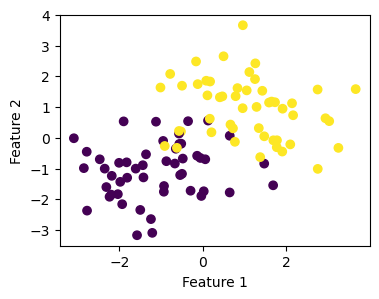
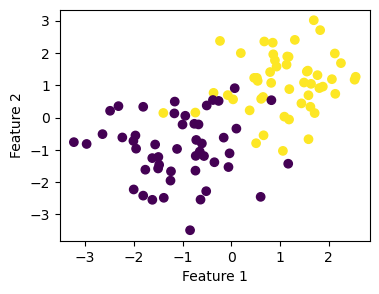
various updates

diff --git a/docs/lecture-notes/convex-linear-models.html b/docs/lecture-notes/convex-linear-models.html
@@ -398,9 +398,9 @@ f(\lambda \mathbf{z}_1 + (1-\lambda)\mathbf{z}_2) &lt; \lambda f( \mathbf{z}_1 )
 <i class="callout-icon no-icon"></i>
 </div>
 <div class="callout-body-container">
-<div id="def-minima" class="theorem definition">
-<p><span class="theorem-title"><strong>Definition 3 (Local and Global Minima) </strong></span>A point <span class="math inline">\(\mathbf{z}\in S\)</span> is a <em>global minimum</em> of the function <span class="math inline">\(f:S \rightarrow \mathbb{R}\)</span> if <span class="math inline">\(f(\mathbf{z}) \leq f(\mathbf{z}')\)</span> for all <span class="math inline">\(\mathbf{z}' \in S\)</span>.</p>
-<p>A point <span class="math inline">\(\mathbf{z}\in S\)</span> is a <em>local minimum</em> of <span class="math inline">\(f:S \rightarrow \mathbb{R}\)</span> if there exists a neighborhood <span class="math inline">\(T \subseteq S\)</span> containing <span class="math inline">\(\mathbf{z}\)</span> such that <span class="math inline">\(\mathbf{z}\)</span> is a global minimum of <span class="math inline">\(f\)</span> on <span class="math inline">\(T\)</span>.</p>
+<div id="def-minimizers" class="theorem definition">
+<p><span class="theorem-title"><strong>Definition 3 (Local and Global Minimizers) </strong></span>A point <span class="math inline">\(\mathbf{z}\in S\)</span> is a <em>global minimizer</em> of the function <span class="math inline">\(f:S \rightarrow \mathbb{R}\)</span> if <span class="math inline">\(f(\mathbf{z}) \leq f(\mathbf{z}')\)</span> for all <span class="math inline">\(\mathbf{z}' \in S\)</span>.</p>
+<p>A point <span class="math inline">\(\mathbf{z}\in S\)</span> is a <em>local minimizer</em> of <span class="math inline">\(f:S \rightarrow \mathbb{R}\)</span> if there exists a neighborhood <span class="math inline">\(T \subseteq S\)</span> containing <span class="math inline">\(\mathbf{z}\)</span> such that <span class="math inline">\(\mathbf{z}\)</span> is a global minimizer of <span class="math inline">\(f\)</span> on <span class="math inline">\(T\)</span>.</p>
 </div>
 </div>
 </div>
@@ -415,9 +415,9 @@ f(\lambda \mathbf{z}_1 + (1-\lambda)\mathbf{z}_2) &lt; \lambda f( \mathbf{z}_1 )
 <div id="thm-convex-functions-are-nice" class="theorem">
 <p><span class="theorem-title"><strong>Theorem 2 </strong></span>Let <span class="math inline">\(f:S \rightarrow \mathbb{R}\)</span> be a convex function. Then:</p>
 <ol type="1">
-<li>If <span class="math inline">\(S\)</span> is closed and bounded, <span class="math inline">\(f\)</span> achieves a minimum <span class="math inline">\(\mathbf{z}^*\)</span> on <span class="math inline">\(S\)</span>.</li>
-<li>Furthermore, if <span class="math inline">\(\mathbf{z}^*\)</span> is a <em>local</em> minimum of <span class="math inline">\(f\)</span>, then it is also a global minimum.</li>
-<li>If in addition <span class="math inline">\(f\)</span> is <em>strictly</em> convex, then this minimum is unique.</li>
+<li>If <span class="math inline">\(S\)</span> is closed and bounded, <span class="math inline">\(f\)</span> has a minimizer <span class="math inline">\(\mathbf{z}^*\)</span> in <span class="math inline">\(S\)</span>.</li>
+<li>Furthermore, if <span class="math inline">\(\mathbf{z}^*\)</span> is a <em>local</em> minimizer of <span class="math inline">\(f\)</span>, then it is also a global minimizer.</li>
+<li>If in addition <span class="math inline">\(f\)</span> is <em>strictly</em> convex, then this minimizer is unique.</li>
 </ol>
 </div>
 </div>
@@ -428,9 +428,9 @@ f(\lambda \mathbf{z}_1 + (1-\lambda)\mathbf{z}_2) &lt; \lambda f( \mathbf{z}_1 )
 <ul>
 <li>Every convex function is <em>continuous</em>.</li>
 <li>If <span class="math inline">\(S\subseteq \mathbb{R}^n\)</span> is closed and bounded, then it is <em>compact</em>.</li>
-<li>Continuous functions achieve minima and maxima on compact sets.</li>
+<li>Continuous functions achieve minimizers and maximizers on compact sets.</li>
 </ul>
-<p>It’s ok if you didn’t follow this! Fortunately the second part of the proof is one we can do together. Suppose to contradiction that <span class="math inline">\(\mathbf{z}^*\)</span> is a local minimum of <span class="math inline">\(f\)</span>, but that there is also a point <span class="math inline">\(\mathbf{z}'\)</span> such that <span class="math inline">\(f(\mathbf{z}') &lt; f(\mathbf{z}^*)\)</span>. Since <span class="math inline">\(\mathbf{z}^*\)</span> is a local minimum, we can find some neighborhood <span class="math inline">\(T\)</span> containing <span class="math inline">\(\mathbf{z}^*\)</span> such that <span class="math inline">\(\mathbf{z}^*\)</span> is a minimum of <span class="math inline">\(f\)</span> on <span class="math inline">\(T\)</span>. Let <span class="math inline">\(\lambda\)</span> be some very small number and consider the point <span class="math inline">\(\mathbf{z}= \lambda \mathbf{z}' + (1-\lambda)\mathbf{z}^*\)</span>. Specifically, choose <span class="math inline">\(\lambda\)</span> small enough so that <span class="math inline">\(\mathbf{z}\in T\)</span> (since this makes <span class="math inline">\(\mathbf{z}\)</span> close to <span class="math inline">\(\mathbf{z}^*\)</span>). We can evaluate</p>
+<p>It’s ok if you didn’t follow this! Fortunately the second part of the proof is one we can do together. Suppose to contradiction that <span class="math inline">\(\mathbf{z}^*\)</span> is a local minimizer of <span class="math inline">\(f\)</span>, but that there is also a point <span class="math inline">\(\mathbf{z}'\)</span> such that <span class="math inline">\(f(\mathbf{z}') &lt; f(\mathbf{z}^*)\)</span>. Since <span class="math inline">\(\mathbf{z}^*\)</span> is a local minimizer, we can find some neighborhood <span class="math inline">\(T\)</span> containing <span class="math inline">\(\mathbf{z}^*\)</span> such that <span class="math inline">\(\mathbf{z}^*\)</span> is a minimizer of <span class="math inline">\(f\)</span> on <span class="math inline">\(T\)</span>. Let <span class="math inline">\(\lambda\)</span> be some very small number and consider the point <span class="math inline">\(\mathbf{z}= \lambda \mathbf{z}' + (1-\lambda)\mathbf{z}^*\)</span>. Specifically, choose <span class="math inline">\(\lambda\)</span> small enough so that <span class="math inline">\(\mathbf{z}\in T\)</span> (since this makes <span class="math inline">\(\mathbf{z}\)</span> close to <span class="math inline">\(\mathbf{z}^*\)</span>). We can evaluate</p>
 <p><span class="math display">\[
 \begin{align}
 f(\mathbf{z}) &amp;= f(\lambda \mathbf{z}' + (1-\lambda)\mathbf{z}^*) \tag{definition of $\mathbf{z}$}\\
@@ -439,7 +439,7 @@ f(\mathbf{z}) &amp;= f(\lambda \mathbf{z}' + (1-\lambda)\mathbf{z}^*) \tag{defin
        &amp;&lt; f(\mathbf{z}^*)\;. \tag{assumption that $f(\mathbf{z}') &lt; f(\mathbf{z}^*)$}
 \end{align}
 \]</span></p>
-<p>But this is a contradiction, since we constructed <span class="math inline">\(\mathbf{z}\)</span> to be in the neighborhood <span class="math inline">\(T\)</span> where <span class="math inline">\(\mathbf{z}^*\)</span> is a local minimum. We conclude that there is no <span class="math inline">\(\mathbf{z}'\)</span> such that <span class="math inline">\(f(\mathbf{z}') &lt; f(\mathbf{z}^*)\)</span>, and therefore that <span class="math inline">\(\mathbf{z}^*\)</span> is a global minimum.</p>
+<p>But this is a contradiction, since we constructed <span class="math inline">\(\mathbf{z}\)</span> to be in the neighborhood <span class="math inline">\(T\)</span> where <span class="math inline">\(\mathbf{z}^*\)</span> is a local minimizer. We conclude that there is no <span class="math inline">\(\mathbf{z}'\)</span> such that <span class="math inline">\(f(\mathbf{z}') &lt; f(\mathbf{z}^*)\)</span>, and therefore that <span class="math inline">\(\mathbf{z}^*\)</span> is a global minimizer.</p>
 <p>The proof of the third part follows a very similar argument to the proof of the second part!</p>
 </div>
 <p>There’s two other very important math facts that we need in order to apply convexity to the empirical risk minimization problem for linear models.</p>
@@ -476,14 +476,14 @@ f(\mathbf{z}) &amp;= f(\lambda \mathbf{z}' + (1-\lambda)\mathbf{z}^*) \tag{defin
 <ol type="1">
 <li><span class="math inline">\(\ell(\langle \mathbf{w}, \mathbf{x} \rangle, y)\)</span> is strictly convex as a function of <span class="math inline">\(\mathbf{w}\)</span> (<a href="#thm-convex-compositions">Theorem&nbsp;3</a>, part 2).</li>
 <li>The empirical risk <span class="math inline">\(L(\mathbf{w}) = \frac{1}{n}\sum_{i = 1}^n \ell(\langle \mathbf{w}, \mathbf{x}_i \rangle, y_i)\)</span> is strictly convex as a function of <span class="math inline">\(\mathbf{w}\)</span> (<a href="#thm-convex-compositions">Theorem&nbsp;3</a>, part 1).</li>
-<li>If the empirical risk <span class="math inline">\(R(\mathbf{w})\)</span> has a global minimum, that global minimum is unique (<a href="#thm-convex-functions-are-nice">Theorem&nbsp;2</a>, part 3).</li>
-<li>The empirical risk <span class="math inline">\(R(\mathbf{w})\)</span> has no local minima which are not global minima.</li>
+<li>If the empirical risk <span class="math inline">\(R(\mathbf{w})\)</span> has a global minimizer, that global minimizer is unique (<a href="#thm-convex-functions-are-nice">Theorem&nbsp;2</a>, part 3).</li>
+<li>The empirical risk <span class="math inline">\(R(\mathbf{w})\)</span> has no local minimizers which are not global minimizers.</li>
 </ol>
 <p>These facts have important implications for our fundamental questions on empirical risk minimization.</p>
-<p><strong>Existence</strong>. Even convex functions are not guaranteed to have minima. However, there are lots of choices of loss function <span class="math inline">\(\ell\)</span> which do guarantee that the empirical risk has a minimizer.</p>
+<p><strong>Existence</strong>. Even convex functions are not guaranteed to have minimizers. However, there are lots of choices of loss function <span class="math inline">\(\ell\)</span> which do guarantee that the empirical risk has a minimizer.</p>
 <p><strong>Uniqueness</strong>: When the empirical risk is strictly convex, there can only be one global minimizer.</p>
-<p><strong>Searchability</strong>: When the empirical risk is strictly convex, there are also no local minima other than the global minimum. Algorithmically, <strong><em>this is the most important property of convexity</em></strong>. It means that if I manage to find any local minimum at all, that point <em>must</em> be the global minimum.</p>
-<div class="page-columns page-full"><p> <strong>Performance</strong>: Convexity significantly reduces the difficulty of our task: instead of trying to find “the best” solution, it’s sufficient for us to find any local optimum. This means that we can design our algorithms to be “greedy local minimum hunters.” There are lots of fast algorithms to do this. An especially important class of algorithms are <em>gradient descent methods</em>, which we’ll discuss soon.</p><div class="no-row-height column-margin column-container"><span class="aside">If you’ve taken an algorithms class, one way of thinking of convexity is that it guarantees that <em>greedy methods work</em> for solving minimization problems.</span></div></div>
+<p><strong>Searchability</strong>: When the empirical risk is strictly convex, there are also no local minimizers other than the global minimizer. Algorithmically, <strong><em>this is the most important property of convexity</em></strong>. It means that if I manage to find any local minimizer at all, that point <em>must</em> be the global minimizer.</p>
+<div class="page-columns page-full"><p> <strong>Performance</strong>: Convexity significantly reduces the difficulty of our task: instead of trying to find “the best” solution, it’s sufficient for us to find any local optimum. This means that we can design our algorithms to be “greedy local minimizer hunters.” There are lots of fast algorithms to do this. An especially important class of algorithms are <em>gradient descent methods</em>, which we’ll discuss soon.</p><div class="no-row-height column-margin column-container"><span class="aside">If you’ve taken an algorithms class, one way of thinking of convexity is that it guarantees that <em>greedy methods work</em> for solving minimization problems.</span></div></div>
 </section>
 <section id="demo-logistic-regression" class="level2 page-columns page-full">
 <h2 class="anchored" data-anchor-id="demo-logistic-regression">Demo: Logistic Regression</h2>

diff --git a/docs/lecture-notes/convex-linear-models-demo.html b/docs/lecture-notes/convex-linear-models-demo.html
@@ -118,7 +118,6 @@ code span.wa { color: #60a0b0; font-weight: bold; font-style: italic; } /* Warni
   }
 }</script>
 
-  <script src="https://cdn.jsdelivr.net/npm/mathjax@3/es5/tex-chtml-full.js" type="text/javascript"></script>
 
 <link rel="stylesheet" href="../styles.css">
 </head>
@@ -180,13 +179,12 @@ code span.wa { color: #60a0b0; font-weight: bold; font-style: italic; } /* Warni
 
 
 <div class="cell" data-execution_count="1">
-<div class="sourceCode cell-code" id="cb1"><pre class="sourceCode python code-with-copy"><code class="sourceCode python"><span id="cb1-1"><a href="#cb1-1" aria-hidden="true" tabindex="-1"></a></span>
-<span id="cb1-2"><a href="#cb1-2" aria-hidden="true" tabindex="-1"></a><span class="im">from</span> matplotlib <span class="im">import</span> pyplot <span class="im">as</span> plt</span>
-<span id="cb1-3"><a href="#cb1-3" aria-hidden="true" tabindex="-1"></a><span class="im">import</span> numpy <span class="im">as</span> np</span>
-<span id="cb1-4"><a href="#cb1-4" aria-hidden="true" tabindex="-1"></a><span class="im">from</span> scipy.optimize <span class="im">import</span> minimize</span>
-<span id="cb1-5"><a href="#cb1-5" aria-hidden="true" tabindex="-1"></a><span class="im">from</span> sklearn.datasets <span class="im">import</span> make_blobs</span>
-<span id="cb1-6"><a href="#cb1-6" aria-hidden="true" tabindex="-1"></a>plt.rcParams[<span class="st">"figure.figsize"</span>] <span class="op">=</span> (<span class="dv">4</span>, <span class="dv">3</span>)</span>
-<span id="cb1-7"><a href="#cb1-7" aria-hidden="true" tabindex="-1"></a>np.seterr(<span class="bu">all</span><span class="op">=</span><span class="st">'ignore'</span>) </span></code><button title="Copy to Clipboard" class="code-copy-button"><i class="bi"></i></button></pre></div>
+<div class="sourceCode cell-code" id="cb1"><pre class="sourceCode python code-with-copy"><code class="sourceCode python"><span id="cb1-1"><a href="#cb1-1" aria-hidden="true" tabindex="-1"></a><span class="im">from</span> matplotlib <span class="im">import</span> pyplot <span class="im">as</span> plt</span>
+<span id="cb1-2"><a href="#cb1-2" aria-hidden="true" tabindex="-1"></a><span class="im">import</span> numpy <span class="im">as</span> np</span>
+<span id="cb1-3"><a href="#cb1-3" aria-hidden="true" tabindex="-1"></a><span class="im">from</span> scipy.optimize <span class="im">import</span> minimize</span>
+<span id="cb1-4"><a href="#cb1-4" aria-hidden="true" tabindex="-1"></a><span class="im">from</span> sklearn.datasets <span class="im">import</span> make_blobs</span>
+<span id="cb1-5"><a href="#cb1-5" aria-hidden="true" tabindex="-1"></a>plt.rcParams[<span class="st">"figure.figsize"</span>] <span class="op">=</span> (<span class="dv">4</span>, <span class="dv">3</span>)</span>
+<span id="cb1-6"><a href="#cb1-6" aria-hidden="true" tabindex="-1"></a>np.seterr(<span class="bu">all</span><span class="op">=</span><span class="st">'ignore'</span>) </span></code><button title="Copy to Clipboard" class="code-copy-button"><i class="bi"></i></button></pre></div>
 <div class="cell-output cell-output-display" data-execution_count="1">
 <pre><code>{'divide': 'warn', 'over': 'warn', 'under': 'ignore', 'invalid': 'warn'}</code></pre>
 </div>
@@ -199,8 +197,6 @@ code span.wa { color: #60a0b0; font-weight: bold; font-style: italic; } /* Warni
 <p><img src="convex-linear-models-demo_files/figure-html/cell-3-output-1.png" class="img-fluid"></p>
 </div>
 </div>
-<p>Because the logistic loss is convex in <span class="math inline">\(\hat{y}\)</span>, the empirical risk minimization problem can have at most one minimum. In fact, it’s possible to show, if the data is <em>not</em> linearly separable, there exists a global minimum.</p>
-<p>Here is some sample data for which we will try to find a good linear classifier.</p>
 <div class="cell" data-execution_count="3">
 <div class="sourceCode cell-code" id="cb4"><pre class="sourceCode python code-with-copy"><code class="sourceCode python"><span id="cb4-1"><a href="#cb4-1" aria-hidden="true" tabindex="-1"></a>p_features <span class="op">=</span> <span class="dv">3</span></span>
 <span id="cb4-2"><a href="#cb4-2" aria-hidden="true" tabindex="-1"></a></span>
@@ -218,24 +214,34 @@ code span.wa { color: #60a0b0; font-weight: bold; font-style: italic; } /* Warni
 </div>
 </div>
 </div>
-<p>Now let’s do an implementation. First let’s define a linear predictor function of the form <span class="math inline">\(f(\vx) = \bracket{w, \vx}\)</span>. Note that this predictor makes the predictions on <em>all</em> the training data at once!</p>
 <div class="cell" data-execution_count="4">
 <div class="sourceCode cell-code" id="cb5"><pre class="sourceCode python code-with-copy"><code class="sourceCode python"><span id="cb5-1"><a href="#cb5-1" aria-hidden="true" tabindex="-1"></a><span class="co"># add a constant feature to the feature matrix</span></span>
-<span id="cb5-2"><a href="#cb5-2" aria-hidden="true" tabindex="-1"></a>X_ <span class="op">=</span> np.append(X, np.ones((X.shape[<span class="dv">0</span>], <span class="dv">1</span>)), <span class="dv">1</span>)</span>
-<span id="cb5-3"><a href="#cb5-3" aria-hidden="true" tabindex="-1"></a></span></code><button title="Copy to Clipboard" class="code-copy-button"><i class="bi"></i></button></pre></div>
+<span id="cb5-2"><a href="#cb5-2" aria-hidden="true" tabindex="-1"></a>X_ <span class="op">=</span> np.append(X, np.ones((X.shape[<span class="dv">0</span>], <span class="dv">1</span>)), <span class="dv">1</span>)</span></code><button title="Copy to Clipboard" class="code-copy-button"><i class="bi"></i></button></pre></div>
 </div>
 <p>Now we’ll define some functions to compute the empirical risk:</p>
-<div class="cell" data-execution_count="5">
-<div class="sourceCode cell-code" id="cb6"><pre class="sourceCode python code-with-copy"><code class="sourceCode python"><span id="cb6-1"><a href="#cb6-1" aria-hidden="true" tabindex="-1"></a><span class="co"># implement: </span></span>
+<div class="cell" data-execution_count="9">
+<div class="sourceCode cell-code" id="cb6"><pre class="sourceCode python code-with-copy"><code class="sourceCode python"><span id="cb6-1"><a href="#cb6-1" aria-hidden="true" tabindex="-1"></a><span class="co"># implement: (WE ARE CODING TOGETHER HERE!!)</span></span>
 <span id="cb6-2"><a href="#cb6-2" aria-hidden="true" tabindex="-1"></a><span class="co"># - predict</span></span>
 <span id="cb6-3"><a href="#cb6-3" aria-hidden="true" tabindex="-1"></a><span class="co"># - sigmoid</span></span>
 <span id="cb6-4"><a href="#cb6-4" aria-hidden="true" tabindex="-1"></a><span class="co"># - logistic_loss</span></span>
 <span id="cb6-5"><a href="#cb6-5" aria-hidden="true" tabindex="-1"></a><span class="co"># - empirical_risk</span></span>
-<span id="cb6-6"><a href="#cb6-6" aria-hidden="true" tabindex="-1"></a></span></code><button title="Copy to Clipboard" class="code-copy-button"><i class="bi"></i></button></pre></div>
+<span id="cb6-6"><a href="#cb6-6" aria-hidden="true" tabindex="-1"></a></span>
+<span id="cb6-7"><a href="#cb6-7" aria-hidden="true" tabindex="-1"></a><span class="kw">def</span> predict(X, w):</span>
+<span id="cb6-8"><a href="#cb6-8" aria-hidden="true" tabindex="-1"></a>    <span class="cf">return</span> X<span class="op">@</span>w</span>
+<span id="cb6-9"><a href="#cb6-9" aria-hidden="true" tabindex="-1"></a></span>
+<span id="cb6-10"><a href="#cb6-10" aria-hidden="true" tabindex="-1"></a><span class="kw">def</span> logistic_loss(y_hat, y):</span>
+<span id="cb6-11"><a href="#cb6-11" aria-hidden="true" tabindex="-1"></a>    <span class="cf">return</span> <span class="op">-</span>y<span class="op">*</span>np.log(sigmoid(y_hat)) <span class="op">-</span> (<span class="dv">1</span><span class="op">-</span>y)<span class="op">*</span>np.log(<span class="dv">1</span> <span class="op">-</span> sigmoid(y_hat))</span>
+<span id="cb6-12"><a href="#cb6-12" aria-hidden="true" tabindex="-1"></a></span>
+<span id="cb6-13"><a href="#cb6-13" aria-hidden="true" tabindex="-1"></a><span class="kw">def</span> sigmoid(y_hat): </span>
+<span id="cb6-14"><a href="#cb6-14" aria-hidden="true" tabindex="-1"></a>    <span class="cf">return</span> <span class="dv">1</span> <span class="op">/</span> (<span class="dv">1</span> <span class="op">+</span> np.exp(<span class="op">-</span>y_hat))</span>
+<span id="cb6-15"><a href="#cb6-15" aria-hidden="true" tabindex="-1"></a></span>
+<span id="cb6-16"><a href="#cb6-16" aria-hidden="true" tabindex="-1"></a><span class="kw">def</span> empirical_risk(X, y, w, loss):</span>
+<span id="cb6-17"><a href="#cb6-17" aria-hidden="true" tabindex="-1"></a>    y_hat <span class="op">=</span> predict(X, w)</span>
+<span id="cb6-18"><a href="#cb6-18" aria-hidden="true" tabindex="-1"></a>    <span class="cf">return</span> loss(y_hat, y).mean()</span></code><button title="Copy to Clipboard" class="code-copy-button"><i class="bi"></i></button></pre></div>
 </div>
 <p>Finally, we can write the function that will solve the empirical risk minimization problem for us. We’re going to use the <code>scipy.optimize.minimize</code> function, which is a built-in function for solving minimization problems. Soon, we’ll study how to solve minimization problems from scratch.</p>
 <p>The <code>scipy.optimize.minimize</code> function requires us to pass it a single function that accepts a vector of parameters, plus an initial guess for the parameters.</p>
-<div class="cell" data-execution_count="6">
+<div class="cell" data-execution_count="10">
 <div class="sourceCode cell-code" id="cb7"><pre class="sourceCode python code-with-copy"><code class="sourceCode python"><span id="cb7-1"><a href="#cb7-1" aria-hidden="true" tabindex="-1"></a><span class="kw">def</span> find_pars(X, y):</span>
 <span id="cb7-2"><a href="#cb7-2" aria-hidden="true" tabindex="-1"></a>    </span>
 <span id="cb7-3"><a href="#cb7-3" aria-hidden="true" tabindex="-1"></a>    p <span class="op">=</span> X.shape[<span class="dv">1</span>]</span>
@@ -249,15 +255,15 @@ code span.wa { color: #60a0b0; font-weight: bold; font-style: italic; } /* Warni
 <span id="cb7-11"><a href="#cb7-11" aria-hidden="true" tabindex="-1"></a>    <span class="cf">return</span> result.x</span></code><button title="Copy to Clipboard" class="code-copy-button"><i class="bi"></i></button></pre></div>
 </div>
 <p>Ok, let’s try it and take a look at the parameters we obtained. Because the final column of <code>X_</code> is the constant column of 1s, the final entry of <code>w</code> is interpretable as the intercept term <code>b</code>.</p>
-<div class="cell" data-execution_count="7">
+<div class="cell" data-execution_count="11">
 <div class="sourceCode cell-code" id="cb8"><pre class="sourceCode python code-with-copy"><code class="sourceCode python"><span id="cb8-1"><a href="#cb8-1" aria-hidden="true" tabindex="-1"></a>w <span class="op">=</span> find_pars(X_, y)</span>
 <span id="cb8-2"><a href="#cb8-2" aria-hidden="true" tabindex="-1"></a>w</span></code><button title="Copy to Clipboard" class="code-copy-button"><i class="bi"></i></button></pre></div>
-<div class="cell-output cell-output-display" data-execution_count="7">
-<pre><code>array([ 1.73978352,  2.72790434, -0.05069899])</code></pre>
+<div class="cell-output cell-output-display" data-execution_count="11">
+<pre><code>array([ 2.13023501,  1.71745945, -0.15021883])</code></pre>
 </div>
 </div>
 <p>And, finally, we can plot the linear classifier that we learned.</p>
-<div class="cell" data-execution_count="8">
+<div class="cell" data-execution_count="12">
 <div class="sourceCode cell-code" id="cb10"><pre class="sourceCode python code-with-copy"><code class="sourceCode python"><span id="cb10-1"><a href="#cb10-1" aria-hidden="true" tabindex="-1"></a>fig <span class="op">=</span> plt.scatter(X[:,<span class="dv">0</span>], X[:,<span class="dv">1</span>], c <span class="op">=</span> y)</span>
 <span id="cb10-2"><a href="#cb10-2" aria-hidden="true" tabindex="-1"></a>xlab <span class="op">=</span> plt.xlabel(<span class="st">"Feature 1"</span>)</span>
 <span id="cb10-3"><a href="#cb10-3" aria-hidden="true" tabindex="-1"></a>ylab <span class="op">=</span> plt.ylabel(<span class="st">"Feature 2"</span>)</span>

diff --git a/docs/warmup-exercises.html b/docs/warmup-exercises.html
@@ -281,7 +281,7 @@ code span.wa { color: #60a0b0; font-weight: bold; font-style: italic; } /* Warni
 </section>
 <section id="part-2-second-derivative-test" class="level3 page-columns page-full">
 <h3 class="anchored" data-anchor-id="part-2-second-derivative-test">Part 2: Second Derivative Test</h3>
-<p>Another way to tell whether a function is convex is to check its second derivative. If a function <span class="math inline">\(f:S\rightarrow \R\)</span> has a convex domain <span class="math inline">\(S\subseteq R\)</span>, if <span class="math inline">\(f\)</span> is everywhere twice-differentiable, and if <span class="math inline">\(\frac{d^2f(z_0)}{dz^2} &gt; 0\)</span> for all <span class="math inline">\(z_0 \in S\)</span>, then <span class="math inline">\(f\)</span> is convex.</p>
+<p>Another way to tell whether a function is convex is to check its second derivative. If a function <span class="math inline">\(f:S\rightarrow \R\)</span> has a convex domain <span class="math inline">\(S\subseteq \R\)</span>, if <span class="math inline">\(f\)</span> is everywhere twice-differentiable, and if <span class="math inline">\(\frac{d^2f(z_0)}{dz^2} &gt; 0\)</span> for all <span class="math inline">\(z_0 \in S\)</span>, then <span class="math inline">\(f\)</span> is convex.</p>
 <div class="page-columns page-full"><p>Use the second derivative test to check that the following two functions are convex: </p><div class="no-row-height column-margin column-container"><span class="aside">The base of the logarithm doesn’t really matter, but for this course it is always most convenient to assume logs base <span class="math inline">\(e\)</span>, which you might also have seen written <span class="math inline">\(\ln\)</span>.</span></div></div>
 <p><span class="math display">\[
 \begin{aligned}
@@ -312,7 +312,7 @@ f(\lambda \vz_1 + (1-\lambda)\vz_2) \leq \lambda f(\vz_1) + (1-\lambda)f(\vz_2)\
 <li>Suppose now that we are able to evaluate the function <span class="math inline">\(g\)</span>, as well as its derivative <span class="math inline">\(g'\)</span>, but not able to use algebra to find <span class="math inline">\(z^*\)</span> (this mirrors our situation in most practical problems). Instead, we are going to use the following algorithm to attempt to approximate <span class="math inline">\(z^*\)</span>:
 <ul>
 <li>Begin with some initial guess <span class="math inline">\(z^{(0)}\)</span>.</li>
-<li>In each time-step <span class="math inline">\(t\)</span>, compute <span class="math inline">\(z^{(t+1)} \gets z^{(t)} - \alpha g'(z^{(t)})\)</span>.</li>
+<li>In each time-step <span class="math inline">\(t\)</span>, compute <span class="math inline">\(z^{(t+1)} \gets z^{(t)} - \alpha g'(z^{(t)})\)</span>, where <span class="math inline">\(\alpha &gt; 0\)</span> is the <em>learning rate</em>.</li>
 <li>In practice we would need to specify a stopping criterion, but for this theoretical problem we don’t need to worry about it.</li>
 </ul></li>
 <li>Using algebra, prove that for any timestep <span class="math inline">\(t\)</span>,</li>
